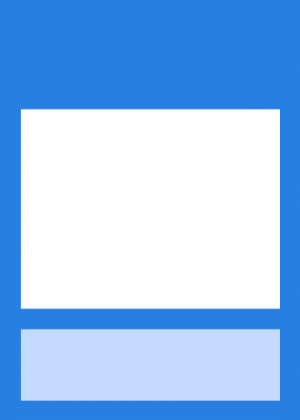
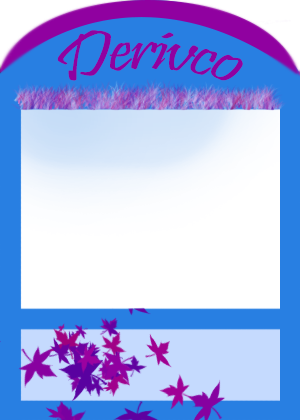
updated game booth which is overlaying the slots

diff --git a/style.css b/style.css
@@ -1,7 +1,11 @@
 body {
   margin: auto;
   padding: 0;
-    background-color: beige;
+    background-image: url("https://miro.medium.com/max/12000/0*ydE1FbDatMKj_lNB");
+    background-repeat: no-repeat;
+    background-size: cover;
+
+
 }
 
 
@@ -35,10 +39,11 @@ body {
     z-index: 1;
     transform: translateZ(0px);
     width: 370px;
-    height: 350px;
-    margin-top: 10%;
+    height: 360px;
+    margin-top: 9%;
     margin-left: 16%;
     margin-right: 22%;
+    margin-bottom: 9%;
 
 
 }
